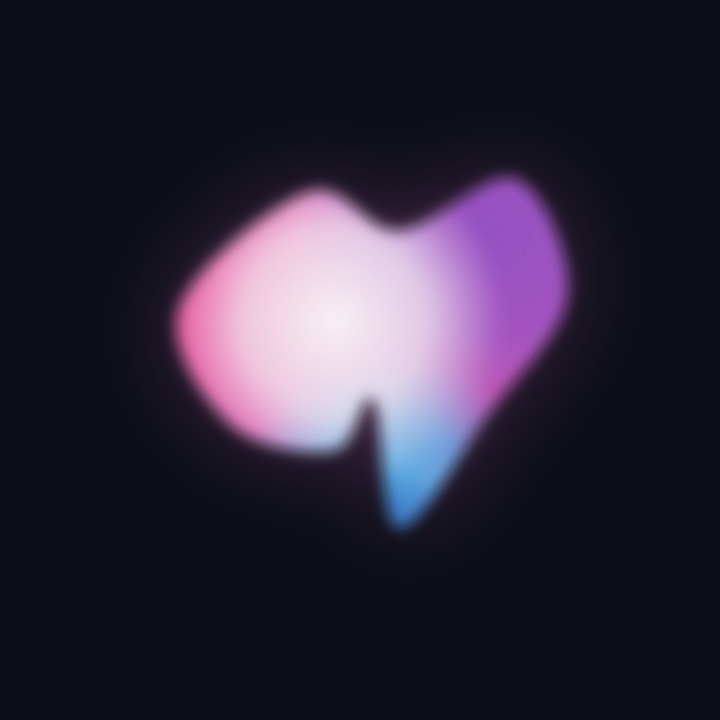
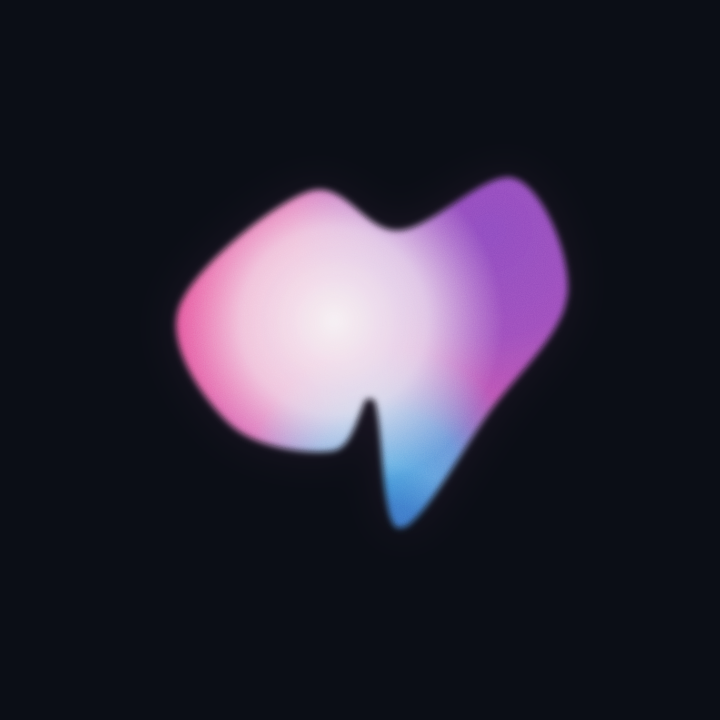
Sharpen silhouette edges; reserve blur for genuinely soft shapes
Edges read as crisp now: cut the outer glow halo (the main source of
the all-blurry look) to a subtle level and shrink edgeFeather for the
defined shapes (SHAPES 37 -> 0.004, blob/pebble/crescent ~0.01), while
keeping the cloud and glowly-abstract soft and the sparkle glowing.
Blur is internal (mesh color) + per-shape, not a uniform halo.
Regenerate config + self-contained random viewer.

Changed region(s): [[0.2139, 0.2139, 0.825, 0.7639]]

diff --git a/morphing_random.html b/morphing_random.html
@@ -155,7 +155,7 @@ window.MORPH_CONFIG = {
         { "pos": [0.60,0.37], "color": "#FBD0E0", "radius": 0.28, "weight": 1.2 },
         { "pos": [0.66,0.32], "color": "#FFFFFF", "radius": 0.15, "weight": 1.4 }
       ] },
-      "render": { "edgeFeather": 0.024, "glow": { "spread": 0.09, "opacity": 0.55 }, "grain": 0.06 },
+      "render": { "edgeFeather": 0.012, "glow": { "spread": 0.06, "opacity": 0.16 }, "grain": 0.06 },
       "opacity": 0.96
     },
 
@@ -174,7 +174,7 @@ window.MORPH_CONFIG = {
         { "pos": [0.50,0.52], "color": "#E8612C", "radius": 0.45, "weight": 1.05 },
         { "pos": [0.55,0.38], "color": "#F0512A", "radius": 0.40, "weight": 1.15 }
       ] },
-      "render": { "edgeFeather": 0.032, "glow": { "spread": 0.10, "opacity": 0.42 }, "grain": 0.06 },
+      "render": { "edgeFeather": 0.009, "glow": { "spread": 0.05, "opacity": 0.14 }, "grain": 0.06 },
       "opacity": 0.97
     },
 
@@ -197,7 +197,7 @@ window.MORPH_CONFIG = {
         { "pos": [0.48,0.46], "color": "#DE96AC", "radius": 0.22, "weight": 1.05 },
         { "pos": [0.74,0.36], "color": "#9CC8C0", "radius": 0.16, "weight": 0.95 }
       ] },
-      "render": { "edgeFeather": 0.060, "glow": { "spread": 0.13, "opacity": 0.40 }, "grain": 0.04 },
+      "render": { "edgeFeather": 0.045, "glow": { "spread": 0.1, "opacity": 0.28 }, "grain": 0.05 },
       "opacity": 0.90
     },
 
@@ -217,7 +217,7 @@ window.MORPH_CONFIG = {
         { "pos": [0.42,0.46], "color": "#F0C0D8", "radius": 0.24, "weight": 1.1 },
         { "pos": [0.34,0.34], "color": "#E2479A", "radius": 0.30, "weight": 1.15 }
       ] },
-      "render": { "edgeFeather": 0.030, "glow": { "spread": 0.09, "opacity": 0.50 }, "grain": 0.06 },
+      "render": { "edgeFeather": 0.012, "glow": { "spread": 0.05, "opacity": 0.16 }, "grain": 0.06 },
       "opacity": 0.96
     },
 
@@ -237,7 +237,7 @@ window.MORPH_CONFIG = {
         { "pos": [0.50,0.66], "color": "#E8B85A", "radius": 0.28, "weight": 1.05 },
         { "pos": [0.60,0.50], "color": "#F0913C", "radius": 0.30, "weight": 1.15 }
       ] },
-      "render": { "edgeFeather": 0.036, "glow": { "spread": 0.10, "opacity": 0.42 }, "grain": 0.06 },
+      "render": { "edgeFeather": 0.013, "glow": { "spread": 0.05, "opacity": 0.14 }, "grain": 0.06 },
       "opacity": 0.95
     },
 
@@ -258,7 +258,7 @@ window.MORPH_CONFIG = {
         { "pos": [0.66,0.46], "color": "#5B8FD6", "radius": 0.22, "weight": 1.0 },
         { "pos": [0.80,0.40], "color": "#F0A348", "radius": 0.16, "weight": 1.2 }
       ] },
-      "render": { "edgeFeather": 0.036, "glow": { "spread": 0.10, "opacity": 0.40 }, "grain": 0.05 },
+      "render": { "edgeFeather": 0.02, "glow": { "spread": 0.06, "opacity": 0.18 }, "grain": 0.05 },
       "opacity": 0.93
     },
 
@@ -276,7 +276,7 @@ window.MORPH_CONFIG = {
         { "pos": [0.50,0.50], "color": "#FFC24A", "radius": 0.20, "weight": 1.2 },
         { "pos": [0.50,0.50], "color": "#FFF1C8", "radius": 0.10, "weight": 1.5 }
       ] },
-      "render": { "edgeFeather": 0.010, "glow": { "spread": 0.15, "opacity": 0.60 }, "grain": 0.04 },
+      "render": { "edgeFeather": 0.006, "glow": { "spread": 0.16, "opacity": 0.55 }, "grain": 0.05 },
       "opacity": 1.0
     },
 
@@ -298,7 +298,7 @@ window.MORPH_CONFIG = {
         { "pos": [0.54,0.80], "color": "#3A7AC8", "radius": 0.14, "weight": 0.95 },
         { "pos": [0.46,0.44], "color": "#F6F1F4", "radius": 0.26, "weight": 1.45 }
       ] },
-      "render": { "edgeFeather": 0.010, "glow": { "spread": 0.07, "opacity": 0.30 }, "grain": 0.12 },
+      "render": { "edgeFeather": 0.004, "glow": { "spread": 0.03, "opacity": 0.1 }, "grain": 0.12 },
       "opacity": 0.96
     },
 
@@ -318,7 +318,7 @@ window.MORPH_CONFIG = {
         { "pos": [0.58,0.42], "color": "#E89A50", "radius": 0.30, "weight": 1.1 },
         { "pos": [0.64,0.34], "color": "#F0B070", "radius": 0.20, "weight": 1.15 }
       ] },
-      "render": { "edgeFeather": 0.050, "glow": { "spread": 0.13, "opacity": 0.50 }, "grain": 0.05 },
+      "render": { "edgeFeather": 0.038, "glow": { "spread": 0.1, "opacity": 0.32 }, "grain": 0.05 },
       "opacity": 0.93
     }
   ],

diff --git a/morphing_config.js b/morphing_config.js
@@ -54,7 +54,7 @@ window.MORPH_CONFIG = {
         { "pos": [0.60,0.37], "color": "#FBD0E0", "radius": 0.28, "weight": 1.2 },
         { "pos": [0.66,0.32], "color": "#FFFFFF", "radius": 0.15, "weight": 1.4 }
       ] },
-      "render": { "edgeFeather": 0.024, "glow": { "spread": 0.09, "opacity": 0.55 }, "grain": 0.06 },
+      "render": { "edgeFeather": 0.012, "glow": { "spread": 0.06, "opacity": 0.16 }, "grain": 0.06 },
       "opacity": 0.96
     },
 
@@ -73,7 +73,7 @@ window.MORPH_CONFIG = {
         { "pos": [0.50,0.52], "color": "#E8612C", "radius": 0.45, "weight": 1.05 },
         { "pos": [0.55,0.38], "color": "#F0512A", "radius": 0.40, "weight": 1.15 }
       ] },
-      "render": { "edgeFeather": 0.032, "glow": { "spread": 0.10, "opacity": 0.42 }, "grain": 0.06 },
+      "render": { "edgeFeather": 0.009, "glow": { "spread": 0.05, "opacity": 0.14 }, "grain": 0.06 },
       "opacity": 0.97
     },
 
@@ -96,7 +96,7 @@ window.MORPH_CONFIG = {
         { "pos": [0.48,0.46], "color": "#DE96AC", "radius": 0.22, "weight": 1.05 },
         { "pos": [0.74,0.36], "color": "#9CC8C0", "radius": 0.16, "weight": 0.95 }
       ] },
-      "render": { "edgeFeather": 0.060, "glow": { "spread": 0.13, "opacity": 0.40 }, "grain": 0.04 },
+      "render": { "edgeFeather": 0.045, "glow": { "spread": 0.1, "opacity": 0.28 }, "grain": 0.05 },
       "opacity": 0.90
     },
 
@@ -116,7 +116,7 @@ window.MORPH_CONFIG = {
         { "pos": [0.42,0.46], "color": "#F0C0D8", "radius": 0.24, "weight": 1.1 },
         { "pos": [0.34,0.34], "color": "#E2479A", "radius": 0.30, "weight": 1.15 }
       ] },
-      "render": { "edgeFeather": 0.030, "glow": { "spread": 0.09, "opacity": 0.50 }, "grain": 0.06 },
+      "render": { "edgeFeather": 0.012, "glow": { "spread": 0.05, "opacity": 0.16 }, "grain": 0.06 },
       "opacity": 0.96
     },
 
@@ -136,7 +136,7 @@ window.MORPH_CONFIG = {
         { "pos": [0.50,0.66], "color": "#E8B85A", "radius": 0.28, "weight": 1.05 },
         { "pos": [0.60,0.50], "color": "#F0913C", "radius": 0.30, "weight": 1.15 }
       ] },
-      "render": { "edgeFeather": 0.036, "glow": { "spread": 0.10, "opacity": 0.42 }, "grain": 0.06 },
+      "render": { "edgeFeather": 0.013, "glow": { "spread": 0.05, "opacity": 0.14 }, "grain": 0.06 },
       "opacity": 0.95
     },
 
@@ -157,7 +157,7 @@ window.MORPH_CONFIG = {
         { "pos": [0.66,0.46], "color": "#5B8FD6", "radius": 0.22, "weight": 1.0 },
         { "pos": [0.80,0.40], "color": "#F0A348", "radius": 0.16, "weight": 1.2 }
       ] },
-      "render": { "edgeFeather": 0.036, "glow": { "spread": 0.10, "opacity": 0.40 }, "grain": 0.05 },
+      "render": { "edgeFeather": 0.02, "glow": { "spread": 0.06, "opacity": 0.18 }, "grain": 0.05 },
       "opacity": 0.93
     },
 
@@ -175,7 +175,7 @@ window.MORPH_CONFIG = {
         { "pos": [0.50,0.50], "color": "#FFC24A", "radius": 0.20, "weight": 1.2 },
         { "pos": [0.50,0.50], "color": "#FFF1C8", "radius": 0.10, "weight": 1.5 }
       ] },
-      "render": { "edgeFeather": 0.010, "glow": { "spread": 0.15, "opacity": 0.60 }, "grain": 0.04 },
+      "render": { "edgeFeather": 0.006, "glow": { "spread": 0.16, "opacity": 0.55 }, "grain": 0.05 },
       "opacity": 1.0
     },
 
@@ -197,7 +197,7 @@ window.MORPH_CONFIG = {
         { "pos": [0.54,0.80], "color": "#3A7AC8", "radius": 0.14, "weight": 0.95 },
         { "pos": [0.46,0.44], "color": "#F6F1F4", "radius": 0.26, "weight": 1.45 }
       ] },
-      "render": { "edgeFeather": 0.010, "glow": { "spread": 0.07, "opacity": 0.30 }, "grain": 0.12 },
+      "render": { "edgeFeather": 0.004, "glow": { "spread": 0.03, "opacity": 0.1 }, "grain": 0.12 },
       "opacity": 0.96
     },
 
@@ -217,7 +217,7 @@ window.MORPH_CONFIG = {
         { "pos": [0.58,0.42], "color": "#E89A50", "radius": 0.30, "weight": 1.1 },
         { "pos": [0.64,0.34], "color": "#F0B070", "radius": 0.20, "weight": 1.15 }
       ] },
-      "render": { "edgeFeather": 0.050, "glow": { "spread": 0.13, "opacity": 0.50 }, "grain": 0.05 },
+      "render": { "edgeFeather": 0.038, "glow": { "spread": 0.1, "opacity": 0.32 }, "grain": 0.05 },
       "opacity": 0.93
     }
   ],
